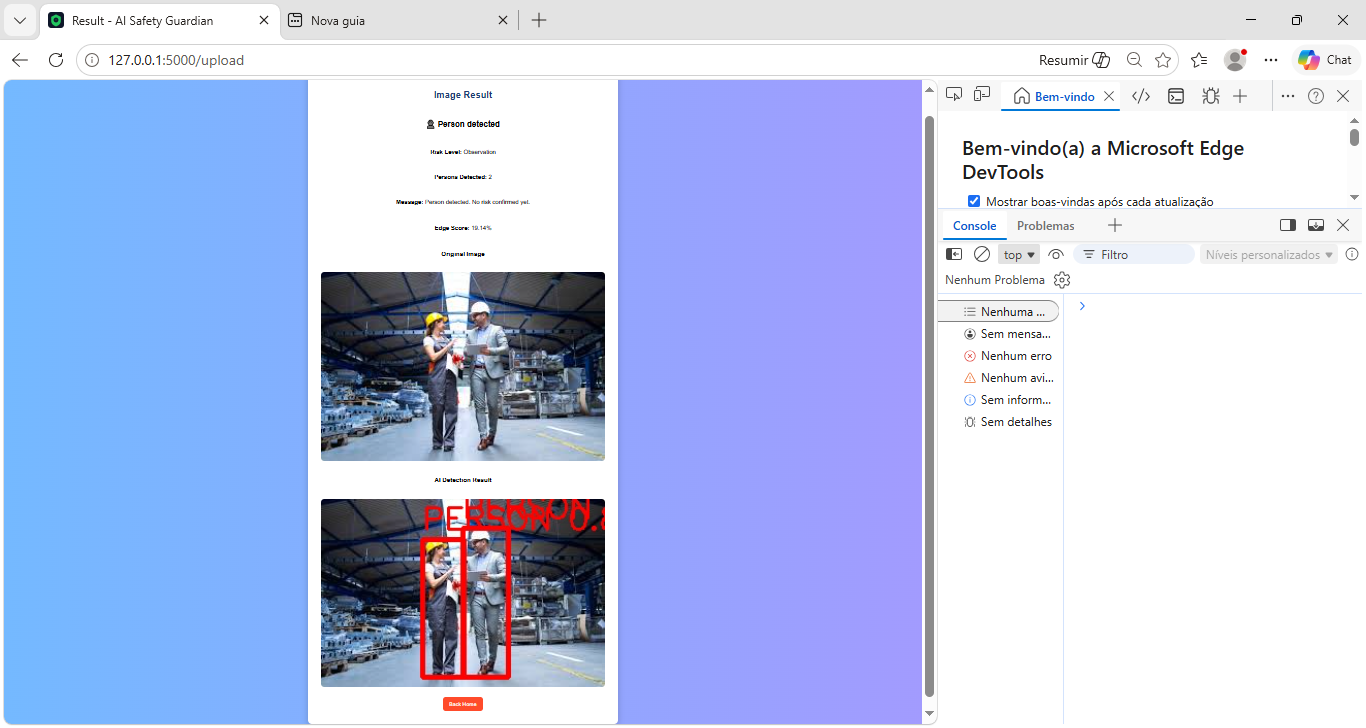
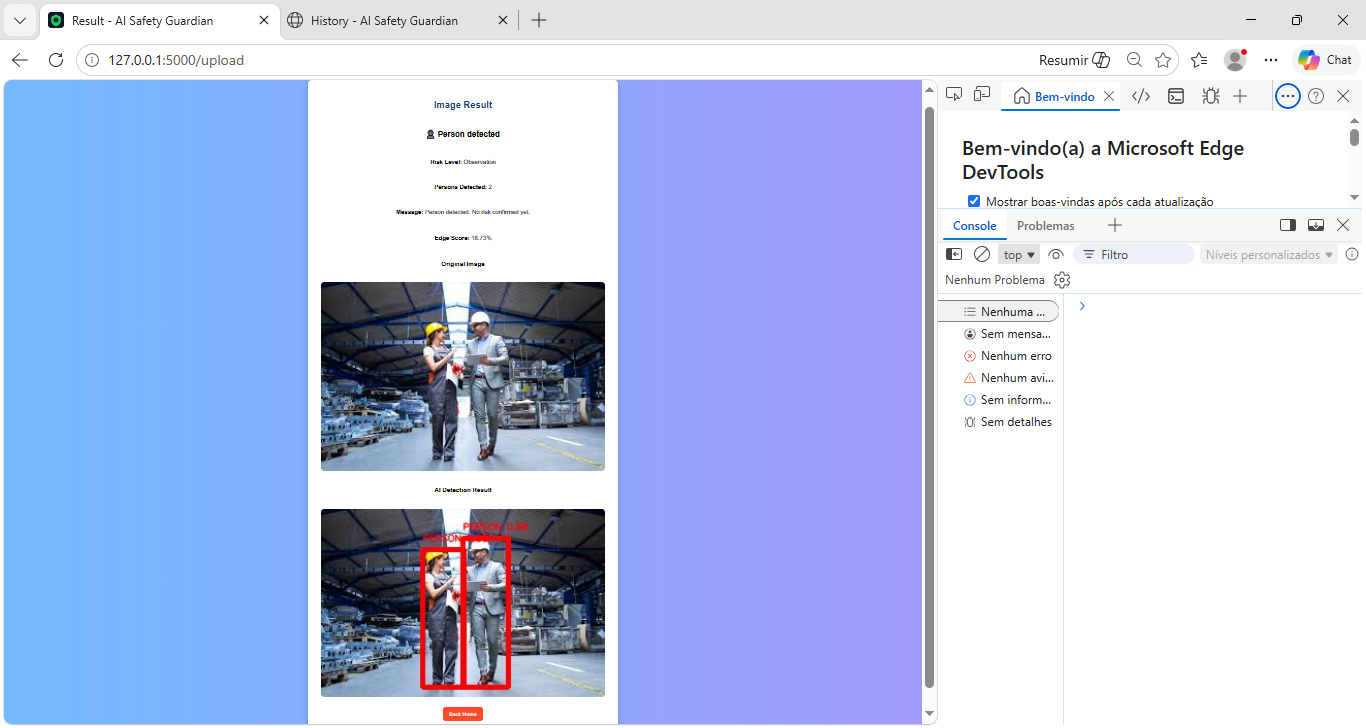
change img 13_detec_person_qtd size label

Changed region(s): [[0.2152, 0.1209, 0.4612, 0.9973], [0.9224, 0.1209, 0.9531, 0.1511], [0.2152, 0.0, 0.246, 0.0302]]

diff --git a/backend/app.py b/backend/app.py
@@ -104,11 +104,12 @@ def upload():
                 img,
                 # "PERSON",
                 f"PERSON {confidence:.2f}",
-                (x1, y1 - 10),
+                (x1, y1 - 8),
                 cv2.FONT_HERSHEY_SIMPLEX,
-                1,
+                0.30,
                 (0, 0, 255),
-                2,
+                1,
+                cv2.LINE_AA,
             )
 
     # Convert image to gray
